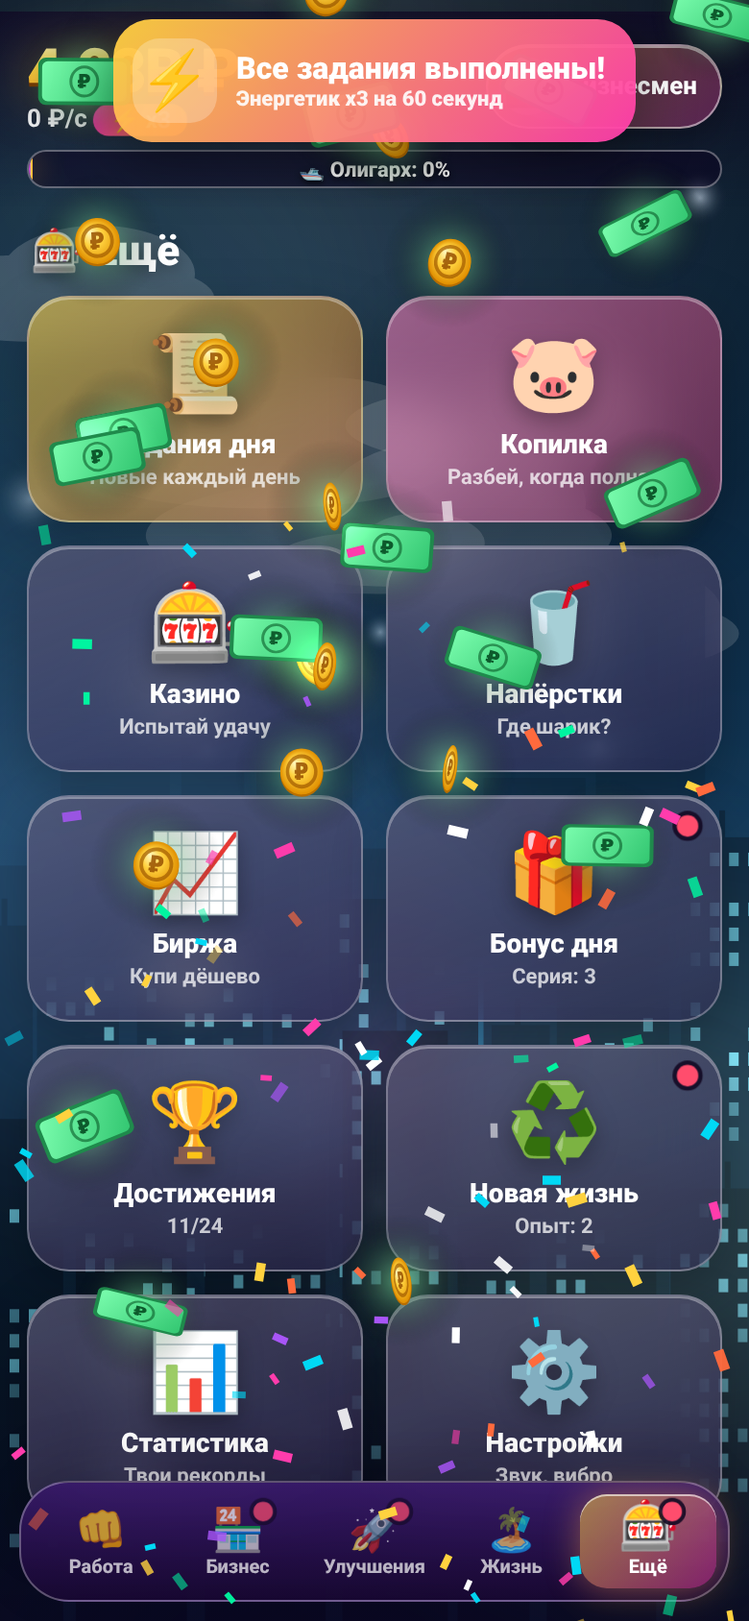
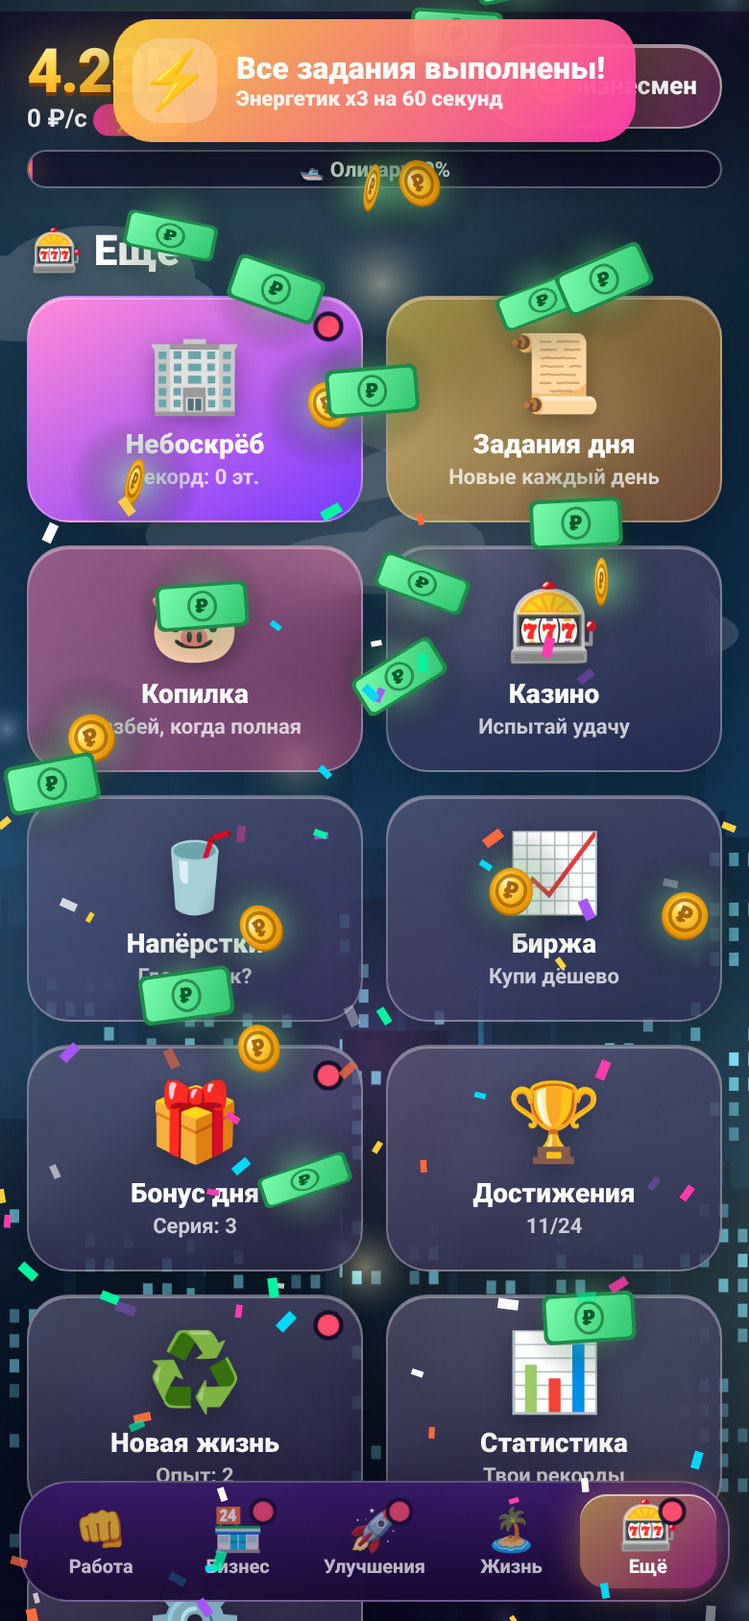
v3.0: титульный экран с ночным городом, БУМ-режим (×5 за серию тапов), мини-игра «Небоскрёб» с наградой и рекордом

diff --git a/boss3.js b/boss3.js
@@ -1,0 +1,184 @@
+/* v3.0: титульный экран, «Бум-режим» и мини-игра «Небоскрёб». Без внешних ресурсов. */
+const B3 = (() => {
+  'use strict';
+  S.b3 = Object.assign({tbest: 0, tlast: 0, booms: 0, tplays: 0}, S.b3 || {});
+  const eco = () => !!(window.PlayKit && window.PlayKit.eco);
+  const D = () => Math.min(devicePixelRatio || 1, eco() ? 1.25 : 2);
+
+  /* ---------- Титульный экран ---------- */
+  const title = document.createElement('div');
+  title.id = 'b3title';
+  title.innerHTML = `<canvas id="b3tfx"></canvas><div class="b3t-in">
+    <div class="b3t-logo"><span class="l1">ОТ БОМЖА</span><span class="l2">ДО БОССА</span><span class="l3">кликер карьеры</span></div>
+    <div class="b3t-card"><div class="b3t-em" id="b3tEm"></div><div><small>Твой статус</small><b id="b3tStage"></b><span id="b3tCash"></span></div></div>
+    <button class="b3t-play" id="b3tPlay"><b>Играть</b><small id="b3tSub"></small></button>
+    <div class="b3t-row"><span>🏢 Небоскрёб: <b id="b3tTower"></b></span><span>💥 Бум-режимов: <b id="b3tBooms"></b></span></div>
+  </div>`;
+  document.body.appendChild(title);
+  function fillTitle() {
+    const st = STAGES[S.stage];
+    $('#b3tEm').textContent = st.emoji || '🧔';
+    $('#b3tStage').textContent = st.name;
+    $('#b3tCash').textContent = money(S.cash);
+    $('#b3tSub').textContent = S.totalEarned > 0 ? 'Продолжить карьеру' : 'Начать путь с нуля';
+    $('#b3tTower').textContent = S.b3.tbest + ' эт.';
+    $('#b3tBooms').textContent = S.b3.booms;
+  }
+  let tRaf = 0, tt0 = performance.now();
+  const towers = Array.from({length: 26}, (_, i) => ({x: i / 25, h: .18 + Math.random() * .42, w: .05 + Math.random() * .05, hue: Math.random()}));
+  const coins = Array.from({length: 34}, () => ({x: Math.random(), y: Math.random(), v: .1 + Math.random() * .25, r: 5 + Math.random() * 7, s: Math.random() * 6}));
+  function titleFx(now) {
+    tRaf = 0; if (title.classList.contains('hide') || document.hidden) return;
+    tRaf = requestAnimationFrame(titleFx);
+    const cv = $('#b3tfx'), d = D(), w = innerWidth, h = innerHeight;
+    if (cv.width !== Math.round(w * d)) { cv.width = Math.round(w * d); cv.height = Math.round(h * d); }
+    const c = cv.getContext('2d'); c.setTransform(d, 0, 0, d, 0, 0);
+    const t = (now - tt0) / 1000;
+    const g = c.createLinearGradient(0, 0, 0, h); g.addColorStop(0, '#2a0b5e'); g.addColorStop(.45, '#a8327a'); g.addColorStop(.7, '#ff8a3a'); g.addColorStop(1, '#2a0b3a');
+    c.fillStyle = g; c.fillRect(0, 0, w, h);
+    // солнце
+    const sy = h * .62; const sg = c.createRadialGradient(w / 2, sy, 10, w / 2, sy, w * .6); sg.addColorStop(0, '#fff3c0'); sg.addColorStop(.2, '#ffc23f'); sg.addColorStop(1, '#ff8a3a00'); c.fillStyle = sg; c.fillRect(0, 0, w, h);
+    c.save(); c.translate(w / 2, sy); c.rotate(t * .08); c.globalAlpha = .12; c.fillStyle = '#fff6d0';
+    for (let i = 0; i < 14; i++) { c.rotate(Math.PI / 7); c.beginPath(); c.moveTo(0, 0); c.lineTo(w, -40); c.lineTo(w, 40); c.closePath(); c.fill(); }
+    c.restore(); c.globalAlpha = 1;
+    // город
+    towers.forEach((b, i) => {
+      const bx = b.x * w - b.w * w / 2, bw = b.w * w, bh = b.h * h, by = h * .78 - bh;
+      const bg = c.createLinearGradient(bx, by, bx + bw, by); bg.addColorStop(0, '#2a0b4a'); bg.addColorStop(1, '#4a1a6a'); c.fillStyle = bg; c.fillRect(bx, by, bw, bh + h);
+      c.fillStyle = '#ffe08a';
+      for (let yy = by + 8; yy < h * .78 - 6; yy += 11) for (let xx = bx + 4; xx < bx + bw - 5; xx += 8) { const on = Math.sin(xx * 13.7 + yy * 7.1 + Math.floor(t * .7 + i)) > .2; if (on) { c.globalAlpha = .55 + .4 * Math.sin(xx + yy + t); c.fillRect(xx, yy, 3.5, 5); } }
+      c.globalAlpha = 1;
+    });
+    const gr = c.createLinearGradient(0, h * .78, 0, h); gr.addColorStop(0, '#1a0838'); gr.addColorStop(1, '#0a0420'); c.fillStyle = gr; c.fillRect(0, h * .78, w, h);
+    // монеты
+    coins.forEach(k => { k.y += k.v * .006; if (k.y > 1.05) { k.y = -.05; k.x = Math.random(); } const x = k.x * w + Math.sin(t + k.s) * 12, y = k.y * h, sx = Math.abs(Math.cos(t * 3 + k.s));
+      c.save(); c.translate(x, y); c.scale(sx * .9 + .1, 1); const cg = c.createRadialGradient(-k.r * .3, -k.r * .3, 1, 0, 0, k.r); cg.addColorStop(0, '#fff8d0'); cg.addColorStop(.5, '#ffc93a'); cg.addColorStop(1, '#c07a0a'); c.fillStyle = cg; c.beginPath(); c.arc(0, 0, k.r, 0, 7); c.fill(); c.fillStyle = '#9a5a06'; c.font = `900 ${k.r}px system-ui`; c.textAlign = 'center'; c.textBaseline = 'middle'; c.fillText('₽', 0, 1); c.restore(); });
+  }
+  function openTitle() { fillTitle(); title.classList.remove('hide'); title.hidden = false; if (!tRaf) tRaf = requestAnimationFrame(titleFx); }
+  function closeTitle() { title.classList.add('hide'); setTimeout(() => { if (title.classList.contains('hide')) title.hidden = true; }, 500); }
+  $('#b3tPlay').addEventListener('click', () => { Sfx.init(); Sfx.click && Sfx.click(); closeTitle(); });
+
+  /* ---------- Бум-режим ---------- */
+  let meter = 0, boomUntil = 0, lastT = performance.now();
+  const BOOM_NEED = 50, BOOM_SEC = 8;
+  const isBoom = () => performance.now() < boomUntil;
+  const origTap = doTap;
+  doTap = function (x, y) {
+    origTap(x, y);
+    if (isBoom()) {
+      const extra = tapValue() * 4; earn(extra);
+      floatText(x + rnd(-30, 30), y - 40, '💥 +' + money(extra), true);
+      if (typeof SHINE !== 'undefined') SHINE.coin(x, y, eco() ? 4 : 9, true);
+    } else {
+      meter = Math.min(BOOM_NEED, meter + 1);
+      if (meter >= BOOM_NEED) startBoom();
+    }
+    paintMeter();
+  };
+  function startBoom() {
+    boomUntil = performance.now() + BOOM_SEC * 1000; meter = 0; S.b3.booms++;
+    document.body.classList.add('b3boom');
+    toast('💥', 'БУМ-РЕЖИМ!', 'Каждый тап ×5 на ' + BOOM_SEC + ' секунд');
+    try { Sfx.crit(); } catch (e) {}
+    vibe(60);
+    if (typeof confetti === 'function') confetti(eco() ? 50 : 120);
+    save();
+  }
+  function paintMeter() {
+    const z = document.querySelector('.tap-zone'); if (!z) return;
+    const p = isBoom() ? (boomUntil - performance.now()) / (BOOM_SEC * 1000) : meter / BOOM_NEED;
+    z.style.setProperty('--boom', Math.max(0, p).toFixed(3));
+    z.classList.toggle('booming', isBoom());
+    let lbl = z.querySelector('.b3lbl');
+    if (!lbl) { lbl = document.createElement('div'); lbl.className = 'b3lbl'; z.appendChild(lbl); }
+    lbl.textContent = isBoom() ? '💥 БУМ ×5 · ' + Math.ceil((boomUntil - performance.now()) / 1000) + ' с' : meter > 0 ? 'Бум ' + Math.round(meter / BOOM_NEED * 100) + '%' : 'Тапай быстро — включи БУМ';
+  }
+  setInterval(() => {
+    const n = performance.now(), dt = (n - lastT) / 1000; lastT = n;
+    if (!isBoom()) { document.body.classList.remove('b3boom'); if (meter > 0) meter = Math.max(0, meter - dt * 2); }
+    paintMeter();
+  }, 200);
+
+  /* ---------- Мини-игра «Небоскрёб» ---------- */
+  const COOL = 120; // секунд между платными заходами
+  const origMenu = moreMenu;
+  moreMenu = function () {
+    const ready = Date.now() / 1000 - (S.b3.tlast || 0) >= COOL;
+    return origMenu().replace('<div class="grid">', `<div class="grid"><button class="tile t7" data-act="b3tower"><i>🏢</i>Небоскрёб<small>Рекорд: ${S.b3.tbest} эт.</small>${ready ? '<b class="dot"></b>' : ''}</button>`);
+  };
+  const ov = document.createElement('div'); ov.id = 'b3tower'; ov.hidden = true;
+  ov.innerHTML = `<canvas id="b3tc"></canvas><div class="b3h"><button id="b3tx" aria-label="Закрыть">×</button><div><b id="b3fl">0</b><small>этажей</small></div><div><b id="b3rw">0 ₽</b><small id="b3rl">награда</small></div></div>
+    <div class="b3msg" id="b3msg"><h3>🏢 Небоскрёб</h3><p>Тапай, чтобы опустить этаж. Ровная постановка — «Идеально!» и этаж не уменьшается. Чем выше — тем больше денег.</p><button id="b3go">Строить!</button></div>`;
+  document.body.appendChild(ov);
+  document.addEventListener('click', e => { if (e.target.closest('[data-act="b3tower"]')) openTower(); }, true);
+  let G = null, tRafG = 0;
+  function rewardNow(fl) { return Math.round(baseReward() * fl * .25); }
+  function paid() { return Date.now() / 1000 - (S.b3.tlast || 0) >= COOL; }
+  function openTower() { ov.hidden = false; G = null; msg(true); hud(0); Sfx.init(); }
+  function msg(show, html) { const m = $('#b3msg'); m.hidden = !show; if (html) m.innerHTML = html; const b = $('#b3go'); if (b) b.onclick = startTower; }
+  function hud(fl) { $('#b3fl').textContent = fl; $('#b3rw').textContent = paid() ? money(rewardNow(fl)) : '—'; $('#b3rl').textContent = paid() ? 'награда' : 'тренировка · ' + Math.ceil(COOL - (Date.now() / 1000 - S.b3.tlast)) + ' с'; }
+  function startTower() {
+    const w = innerWidth;
+    G = {blocks: [{x: w / 2 - 80, w: 160}], cur: {x: 0, w: 160, dir: 1}, speed: 2.4, cam: 0, camT: 0, over: false, perfect: 0, fx: [], hue: 0};
+    msg(false); hud(0); last = performance.now(); if (!tRafG) tRafG = requestAnimationFrame(loopT);
+  }
+  let last = 0;
+  const BH = 34;
+  function drop() {
+    if (!G || G.over) return;
+    const top = G.blocks[G.blocks.length - 1], c = G.cur;
+    const l = Math.max(top.x, c.x), r = Math.min(top.x + top.w, c.x + c.w), ov2 = r - l;
+    if (ov2 <= 0) return endTower();
+    let nb;
+    if (Math.abs(c.x - top.x) < 5) { nb = {x: top.x, w: top.w}; G.perfect++; floatText(innerWidth / 2, innerHeight * .35, G.perfect > 1 ? 'Идеально ×' + G.perfect + '!' : 'Идеально!', true); try { Sfx.crit(); } catch (e) {} if (G.perfect % 3 === 0) nb.w = Math.min(200, nb.w + 12); }
+    else { nb = {x: l, w: ov2}; G.perfect = 0; G.fx.push({x: c.x < top.x ? c.x : r, w: c.w - ov2, y: G.blocks.length, vy: 0, life: 1.2}); try { Sfx.tap(); } catch (e) {} }
+    G.blocks.push(nb); vibe(10);
+    const n = G.blocks.length - 1; G.speed = Math.min(7, 2.4 + n * .17);
+    G.cur = {x: n % 2 ? innerWidth - nb.w : 0, w: nb.w, dir: n % 2 ? -1 : 1};
+    G.camT = Math.max(0, n - 6) * BH;
+    hud(n);
+  }
+  function endTower() {
+    G.over = true; const fl = G.blocks.length - 1; S.b3.tplays++;
+    const rec = fl > S.b3.tbest; if (rec) S.b3.tbest = fl;
+    let txt = '';
+    if (paid() && fl > 0) { const r = rewardNow(fl) * (rec ? 2 : 1); earn(r); S.b3.tlast = Date.now() / 1000; txt = `<p class="b3big">+${money(r)}</p>${rec ? '<p>🏆 Новый рекорд — награда ×2!</p>' : ''}`; if (typeof confetti === 'function') confetti(80); }
+    else txt = `<p>Тренировка: награда снова будет через ${Math.ceil(COOL - (Date.now() / 1000 - S.b3.tlast))} с.</p>`;
+    save();
+    setTimeout(() => msg(true, `<h3>${fl} ${fl % 10 === 1 && fl % 100 !== 11 ? 'этаж' : (fl % 10 >= 2 && fl % 10 <= 4 && (fl % 100 < 10 || fl % 100 >= 20)) ? 'этажа' : 'этажей'}</h3>${txt}<p>Рекорд: ${S.b3.tbest}</p><button id="b3go">Ещё раз</button>`), 700);
+  }
+  function loopT(now) {
+    tRafG = 0; if (ov.hidden) return; tRafG = requestAnimationFrame(loopT);
+    const dt = Math.min(.05, (now - last) / 1000); last = now;
+    const cv = $('#b3tc'), d = D(), w = innerWidth, h = innerHeight;
+    if (cv.width !== Math.round(w * d)) { cv.width = Math.round(w * d); cv.height = Math.round(h * d); }
+    const c = cv.getContext('2d'); c.setTransform(d, 0, 0, d, 0, 0);
+    if (G && !G.over) { const cu = G.cur; cu.x += cu.dir * G.speed * 60 * dt; if (cu.x < 0) { cu.x = 0; cu.dir = 1; } if (cu.x + cu.w > w) { cu.x = w - cu.w; cu.dir = -1; } }
+    if (G) G.cam += (G.camT - G.cam) * Math.min(1, dt * 6);
+    const n = G ? G.blocks.length : 0, alt = Math.min(1, n / 40);
+    const g = c.createLinearGradient(0, 0, 0, h);
+    g.addColorStop(0, alt > .6 ? '#0a0428' : '#3a1a8a'); g.addColorStop(.6, alt > .6 ? '#3a1a8a' : '#ff8ad8'); g.addColorStop(1, alt > .6 ? '#a8327a' : '#ffc23f');
+    c.fillStyle = g; c.fillRect(0, 0, w, h);
+    if (alt > .3) { c.fillStyle = '#fff'; for (let i = 0; i < 50; i++) { c.globalAlpha = (alt - .3) * Math.abs(Math.sin(i * 77 + now / 900)); c.fillRect((i * 97) % w, (i * 53) % (h * .6), 2, 2); } c.globalAlpha = 1; }
+    const base = h - 120 + (G ? G.cam : 0);
+    if (!G) return;
+    c.fillStyle = '#2a0b3a'; c.fillRect(0, base, w, h);
+    const drawB = (b, i, ghost) => {
+      const y = base - i * BH - BH; if (y > h || y < -BH) return;
+      const hue = (i * 9) % 360;
+      const bg = c.createLinearGradient(b.x, 0, b.x + b.w, 0); bg.addColorStop(0, `hsl(${(hue + 260) % 360} 70% 38%)`); bg.addColorStop(.5, `hsl(${(hue + 280) % 360} 80% 58%)`); bg.addColorStop(1, `hsl(${(hue + 260) % 360} 70% 32%)`);
+      c.globalAlpha = ghost ? .95 : 1; c.fillStyle = bg; c.fillRect(b.x, y, b.w, BH - 2);
+      c.fillStyle = '#ffe08a'; for (let xx = b.x + 6; xx < b.x + b.w - 8; xx += 12) { c.globalAlpha = .55 + .35 * Math.sin(xx * 3 + i); c.fillRect(xx, y + 8, 6, 12); }
+      c.globalAlpha = 1; c.fillStyle = '#ffffff55'; c.fillRect(b.x, y, b.w, 3);
+    };
+    G.blocks.forEach((b, i) => drawB(b, i));
+    if (!G.over) { drawB(G.cur, G.blocks.length, true); c.strokeStyle = '#ffffffaa'; c.setLineDash([4, 6]); c.beginPath(); const t = G.blocks[G.blocks.length - 1]; c.moveTo(t.x, 0); c.lineTo(t.x, h); c.moveTo(t.x + t.w, 0); c.lineTo(t.x + t.w, h); c.globalAlpha = .18; c.stroke(); c.globalAlpha = 1; c.setLineDash([]); }
+    G.fx.forEach(f => { f.vy += 900 * dt; f.life -= dt; f.dy = (f.dy || 0) + f.vy * dt; c.globalAlpha = Math.max(0, f.life); c.fillStyle = '#ff8ad8'; c.fillRect(f.x, base - f.y * BH - BH + f.dy, f.w, BH - 2); c.globalAlpha = 1; });
+    G.fx = G.fx.filter(f => f.life > 0);
+  }
+  ov.addEventListener('pointerdown', e => { if (e.target.closest('button,.b3msg')) return; e.preventDefault(); drop(); });
+  $('#b3tx').addEventListener('click', () => { ov.hidden = true; if (G && !G.over && G.blocks.length > 1) endTower(); G = null; renderTab(); });
+
+  openTitle();
+  return {openTitle, closeTitle, startBoom, isBoom, get meter() { return meter; }, openTower, drop, get game() { return G; }};
+})();

diff --git a/tools/e2e.js b/tools/e2e.js
@@ -12,12 +12,15 @@ let fails = 0; const ok = (c, m) => { console.log((c ? '  ✔ ' : '  ✘ ') + m)
   // 1. новая игра
   let page = await mk();
   await page.evaluateOnNewDocument(() => { if (!sessionStorage.getItem('clr')) { sessionStorage.setItem('clr', 1); localStorage.clear(); } });
-  await page.goto(BASE, { waitUntil: 'networkidle0' });
+  await page.goto(BASE, { waitUntil: 'networkidle0' }); await sleep(900);
+  ok(await page.evaluate(() => !document.getElementById('b3title').hidden), 'титульный экран при запуске');
+  await page.screenshot({ path: OUT + '/bum2boss-title.png' });
+  await page.tap('#b3tPlay'); await sleep(700);
   await page.waitForSelector('#modalCard .btn'); await page.tap('#modalCard .btn'); await sleep(400);
   const box = await (await page.$('#tapBtn')).boundingBox();
   for (let i = 0; i < 60; i++) { await page.touchscreen.tap(box.x + box.width / 2 + (i % 5) * 6, box.y + box.height / 2); await sleep(30); }
   let st = await page.evaluate(() => ({ cash: __game.S.cash, taps: __game.S.taps, piggy: __game.S.piggy }));
-  ok(st.taps === 60 && st.cash > 60, 'тапы приносят деньги: ' + JSON.stringify(st));
+  ok(st.taps >= 60 && st.cash > 60, 'тапы приносят деньги: ' + JSON.stringify(st));
   ok(st.piggy > 0, 'копилка наполняется');
   await page.screenshot({ path: '/tmp/b2b-tap.png' });
   await page.tap('[data-tab=biz]'); await sleep(300);
@@ -28,7 +31,7 @@ let fails = 0; const ok = (c, m) => { console.log((c ? '  ✔ ' : '  ✘ ') + m)
   // 2. старое сохранение v1 (без новых полей) на поздней стадии
   page = await mk();
   await page.evaluateOnNewDocument(() => { if (!sessionStorage.getItem('seed')) { sessionStorage.setItem('seed', 1); localStorage.setItem('b2b_save_v1', JSON.stringify({ cash: 4.2e9, totalEarned: 7e9, lifetime: 7e9, taps: 5000, stage: 7, biz: { b1: { lvl: 120, mgr: true, prog: 0, run: false }, b2: { lvl: 60, mgr: true, prog: 0, run: false } }, upg: { t1: 1 }, life: { h0: 1, v0: 1, w0: 1 }, prestige: 2, ach: { tap1: 1 }, daily: { last: '2026-1-1', streak: 3 }, stats: { golden: 4, spins: 2, maxCombo: 30 }, settings: { sound: false, vibe: false }, buyMult: 1, lastSave: Date.now() })); } });
-  await page.goto(BASE, { waitUntil: 'networkidle0' }); await sleep(800);
+  await page.goto(BASE, { waitUntil: 'networkidle0' }); await sleep(800); await page.tap('#b3tPlay'); await sleep(700);
   st = await page.evaluate(() => ({ stage: __game.S.stage, prestige: __game.S.prestige, q: !!__game.S.quests, biz: __game.S.biz.b1.lvl, rain: __game.S.stats.rain }));
   ok(st.stage >= 7 && st.prestige === 2 && st.q && st.biz === 120 && st.rain === 0, 'старое сохранение загружено и дополнено: ' + JSON.stringify(st));
   // копилка: заполним и разобьём
@@ -60,10 +63,32 @@ let fails = 0; const ok = (c, m) => { console.log((c ? '  ✔ ' : '  ✘ ') + m)
   await page.screenshot({ path: OUT + '/bum2boss-more.png' });
   await page.tap('[data-tab=biz]'); await sleep(500); await page.screenshot({ path: '/tmp/b2b-biz.png' });
   await page.tap('[data-tab=work]'); await sleep(300);
+  // бум-режим
+  await page.evaluate(() => { document.querySelectorAll('#modal:not(.hidden) .btn').forEach(b => b.click()); });
+  const tb = await (await page.$('#tapBtn')).boundingBox();
+  for (let i = 0; i < 140; i++) { await page.touchscreen.tap(tb.x + tb.width / 2, tb.y + tb.height / 2); await sleep(15); if (i > 40 && await page.evaluate(() => B3.isBoom())) break; }
+  st = await page.evaluate(() => ({ boom: B3.isBoom(), n: __game.S.b3.booms, m: B3.meter, taps: __game.S.taps, top: document.elementFromPoint(innerWidth/2, 300).className, tab: document.querySelector('.tab.active').id }));
+  ok(st.boom && st.n === 1, 'частые тапы включают БУМ-режим ' + JSON.stringify(st));
+  const cb = await page.evaluate(() => __game.S.cash); await page.touchscreen.tap(tb.x + tb.width / 2, tb.y + tb.height / 2); await sleep(100);
+  await page.screenshot({ path: OUT + '/bum2boss-boom.png' });
+  // небоскрёб
+  await page.evaluate(() => { __game.S.b3.tlast = 0; }); await page.tap('[data-tab=more]'); await sleep(300);
+  await page.evaluate(() => { document.querySelector('[data-act=moreBack]') && document.querySelector('[data-act=moreBack]').click(); }); await sleep(300);
+  ok(await page.evaluate(() => !!document.querySelector('[data-act=b3tower]')), 'плитка «Небоскрёб» в меню «Ещё»');
+  await page.evaluate(() => document.querySelector('[data-act=b3tower]').click()); await sleep(300);
+  await page.tap('#b3go'); await sleep(300);
+  for (let i = 0; i < 12; i++) { await page.evaluate(() => { const G = B3.game, t = G.blocks[G.blocks.length - 1]; G.cur.x = t.x + (G.blocks.length % 4 ? 0 : 8); }); await page.touchscreen.tap(200, 500); await sleep(120); }
+  await page.screenshot({ path: OUT + '/bum2boss-tower.png' });
+  const c1 = await page.evaluate(() => __game.S.cash);
+  await page.evaluate(() => { B3.game.cur.x = innerWidth + 500; B3.drop(); }); await sleep(900);
+  st = await page.evaluate(c1 => ({ best: __game.S.b3.tbest, gain: __game.S.cash - c1, msg: !document.getElementById('b3msg').hidden }), c1);
+  ok(st.best >= 12 && st.gain > 0 && st.msg, 'небоскрёб: этажи, рекорд и награда ' + JSON.stringify(st));
+  await page.tap('#b3tx'); await sleep(300);
   // офлайн
   await page.evaluate(() => navigator.serviceWorker.ready); await page.reload({ waitUntil: 'networkidle0' });
   ok(await page.evaluate(() => !!navigator.serviceWorker.controller), 'страница под service worker');
   await page.setOfflineMode(true); await page.reload({ waitUntil: 'load' }); await sleep(800);
+  ok(await page.evaluate(() => typeof B3 !== 'undefined' && __game.S.b3.tbest >= 12), 'рекорд небоскрёба сохраняется');
   ok(await page.evaluate(() => typeof SHINE !== 'undefined' && __game.S.stage >= 7), 'офлайн запуск работает, прогресс на месте');
   await page.setOfflineMode(false);
   ok(errs.length === 0, 'нет ошибок JS' + (errs.length ? ': ' + errs.join(' | ') : ''));

diff --git a/style.css b/style.css
@@ -260,3 +260,42 @@ button:focus-visible{outline:3px solid #f1d79b;outline-offset:3px}
 .qbar{height:9px;border-radius:6px;background:rgba(0,0,0,.35);overflow:hidden;margin:5px 0 2px}
 .qbar>div{height:100%;border-radius:6px;background:linear-gradient(90deg,#00f5a0,#ffd23f)}
 @media(prefers-reduced-motion:reduce){.tap-zone::before{animation:none}}
+/* ===== v3.0: титульный экран, Бум-режим, Небоскрёб ===== */
+#b3title{position:fixed;inset:0;z-index:5000;overflow:hidden;transition:opacity .5s,transform .5s;background:#2a0b5e}
+#b3title.hide{opacity:0;transform:scale(1.08);pointer-events:none}
+#b3tfx{position:absolute;inset:0;width:100%;height:100%}
+.b3t-in{position:relative;height:100%;display:flex;flex-direction:column;align-items:center;justify-content:flex-start;gap:16px;padding:calc(env(safe-area-inset-top) + 40px) 22px calc(env(safe-area-inset-bottom) + 26px)}
+.b3t-logo{display:flex;flex-direction:column;align-items:center;line-height:.92;animation:b3float 3.6s ease-in-out infinite;margin-bottom:8px}
+@keyframes b3float{50%{transform:translateY(-7px) rotate(-1deg)}}
+.b3t-logo .l1,.b3t-logo .l2{font:900 52px/1 system-ui,sans-serif;letter-spacing:.02em;background:linear-gradient(180deg,#fffbe8,#ffd84a 45%,#ff9a1f 70%,#e2541a);-webkit-background-clip:text;background-clip:text;color:transparent;filter:drop-shadow(0 4px 0 #6a1a4a) drop-shadow(0 10px 18px #0008)}
+.b3t-logo .l1{font-size:36px;background:linear-gradient(180deg,#fff,#d8c8ff);-webkit-background-clip:text;background-clip:text}
+.b3t-logo .l2{font-size:62px}
+.b3t-logo .l3{margin-top:10px;font:800 12px system-ui;letter-spacing:.4em;text-transform:uppercase;color:#ffe9f6;text-shadow:0 2px 6px #0008}
+.b3t-card{display:flex;gap:12px;align-items:center;padding:12px 18px;border-radius:20px;background:linear-gradient(160deg,#ffffff38,#ffffff10);border:1px solid #ffffff55;backdrop-filter:blur(8px);box-shadow:0 10px 30px #0006;color:#fff;min-width:240px}
+.b3t-em{font-size:40px;filter:drop-shadow(0 4px 6px #0006)}
+.b3t-card small{display:block;font-size:10px;letter-spacing:.2em;text-transform:uppercase;opacity:.8}.b3t-card b{display:block;font:900 18px system-ui}.b3t-card span{font:800 14px system-ui;color:#ffe27a}
+.b3t-play{margin-top:auto;width:min(340px,100%);min-height:82px;border:0;border-radius:24px;cursor:pointer;position:relative;overflow:hidden;background:linear-gradient(180deg,#9dffb0,#2fd06a 55%,#13994a);color:#06371a;box-shadow:0 7px 0 #0b5e2c,0 18px 40px #2fd06a77,inset 0 3px 0 #fffa;display:flex;flex-direction:column;align-items:center;justify-content:center;animation:b3pulse 2s ease-in-out infinite}
+.b3t-play b{font:900 32px system-ui;letter-spacing:.1em;text-transform:uppercase}.b3t-play small{font:800 13px system-ui;opacity:.8}
+.b3t-play::after{content:"";position:absolute;inset:0;background:linear-gradient(110deg,transparent 35%,#ffffff90 50%,transparent 65%);transform:translateX(-100%);animation:b3shine 2.6s ease-in-out infinite}
+.b3t-play:active{transform:translateY(5px);box-shadow:0 2px 0 #0b5e2c}
+@keyframes b3pulse{50%{transform:scale(1.03)}}@keyframes b3shine{60%,100%{transform:translateX(100%)}}
+.b3t-row{display:flex;gap:10px;flex-wrap:wrap;justify-content:center;font:700 12px system-ui;color:#fff}.b3t-row span{padding:7px 12px;border-radius:999px;background:#0006;border:1px solid #ffffff30}.b3t-row b{color:#ffe27a}
+.tap-zone{--boom:0}
+.tap-zone::after{content:"";position:absolute;inset:-10px;border-radius:50%;pointer-events:none;background:conic-gradient(from -90deg,#ffe27a calc(var(--boom)*1turn),#ffffff14 0);-webkit-mask:radial-gradient(farthest-side,transparent calc(100% - 8px),#000 calc(100% - 7px));mask:radial-gradient(farthest-side,transparent calc(100% - 8px),#000 calc(100% - 7px));filter:drop-shadow(0 0 6px #ffb84a);z-index:2}
+.tap-zone.booming::after{background:conic-gradient(from -90deg,#ff4fd8 calc(var(--boom)*1turn),#ffe27a 0);animation:b3spin .8s linear infinite}
+@keyframes b3spin{to{filter:drop-shadow(0 0 16px #ff4fd8) hue-rotate(360deg)}}
+.b3lbl{position:absolute;left:50%;bottom:-6px;transform:translateX(-50%);z-index:3;padding:4px 12px;border-radius:999px;background:#1a0838cc;border:1px solid #ffe27a77;color:#ffe9a6;font:900 12px system-ui;white-space:nowrap;pointer-events:none}
+.booming .b3lbl{background:linear-gradient(90deg,#ff4fd8,#ffb84a);color:#2a0b2a;border-color:#fff;animation:b3pulse .5s ease-in-out infinite}
+body.b3boom #app::before{content:"";position:fixed;inset:0;pointer-events:none;z-index:50;background:radial-gradient(ellipse at center,transparent 45%,#ff4fd855 100%);animation:b3edge .6s ease-in-out infinite alternate}
+@keyframes b3edge{to{opacity:.4}}
+.tile.t7{background:linear-gradient(150deg,#ff8ad8,#7a3cff)!important}
+#b3tower{position:fixed;inset:0;z-index:4000;touch-action:none;user-select:none;-webkit-user-select:none}
+#b3tower[hidden]{display:none}
+#b3tc{position:absolute;inset:0;width:100%;height:100%}
+.b3h{position:absolute;top:calc(env(safe-area-inset-top) + 10px);left:10px;right:10px;display:flex;gap:10px;align-items:center}
+.b3h>div{flex:1;text-align:center;padding:6px;border-radius:14px;background:#0007;border:1px solid #ffffff30;color:#fff}.b3h b{display:block;font:900 20px system-ui;color:#ffe27a}.b3h small{font:700 10px system-ui;opacity:.8}
+#b3tx{width:44px;height:44px;border-radius:50%;border:1px solid #ffffff55;background:#0007;color:#fff;font-size:24px}
+.b3msg{position:absolute;left:50%;top:50%;transform:translate(-50%,-50%);width:min(320px,88%);padding:20px;border-radius:24px;text-align:center;color:#fff;background:linear-gradient(160deg,#5a1fa8f0,#2a0b5ef0);border:2px solid #ffe27a;box-shadow:0 20px 50px #0009}
+.b3msg[hidden]{display:none}
+.b3msg h3{margin:0 0 8px;font:900 26px system-ui;color:#ffe27a}.b3msg p{margin:6px 0;font-size:14px}.b3msg .b3big{font:900 28px system-ui;color:#9dffb0}
+.b3msg button{margin-top:10px;min-height:52px;width:100%;border:0;border-radius:16px;background:linear-gradient(180deg,#ffe9a6,#f6b23b);color:#3a1406;font:900 18px system-ui;box-shadow:0 4px 0 #8a3a12}

diff --git a/service-worker.js b/service-worker.js
@@ -1,7 +1,7 @@
 // Cache names include the worker scope so other games on the same origin stay intact.
 const PREFIX = 'b2b-' + encodeURIComponent(self.registration.scope) + '-';
-const CACHE = PREFIX + 'v6-shine';
-const ASSETS = ['./', './index.html', './style.css', './data.js', './audio.js', './game.js', './shine.js', './manifest.webmanifest',
+const CACHE = PREFIX + 'v7-boss3';
+const ASSETS = ['./', './index.html', './style.css', './data.js', './audio.js', './game.js', './shine.js', './boss3.js', './manifest.webmanifest',
   './icons/apple-touch-icon.png', './icons/icon-192.png', './icons/icon-512.png', './icons/icon-maskable-512.png', './icons/favicon-32.png'];
 self.addEventListener('install', e => {
   e.waitUntil(caches.open(CACHE).then(c => c.addAll(ASSETS)).then(() => self.skipWaiting()));

diff --git a/index.html b/index.html
@@ -52,5 +52,6 @@
 <script src="audio.js"></script>
 <script src="game.js"></script>
 <script src="shine.js"></script>
+<script src="boss3.js"></script>
 </body>
 </html>
